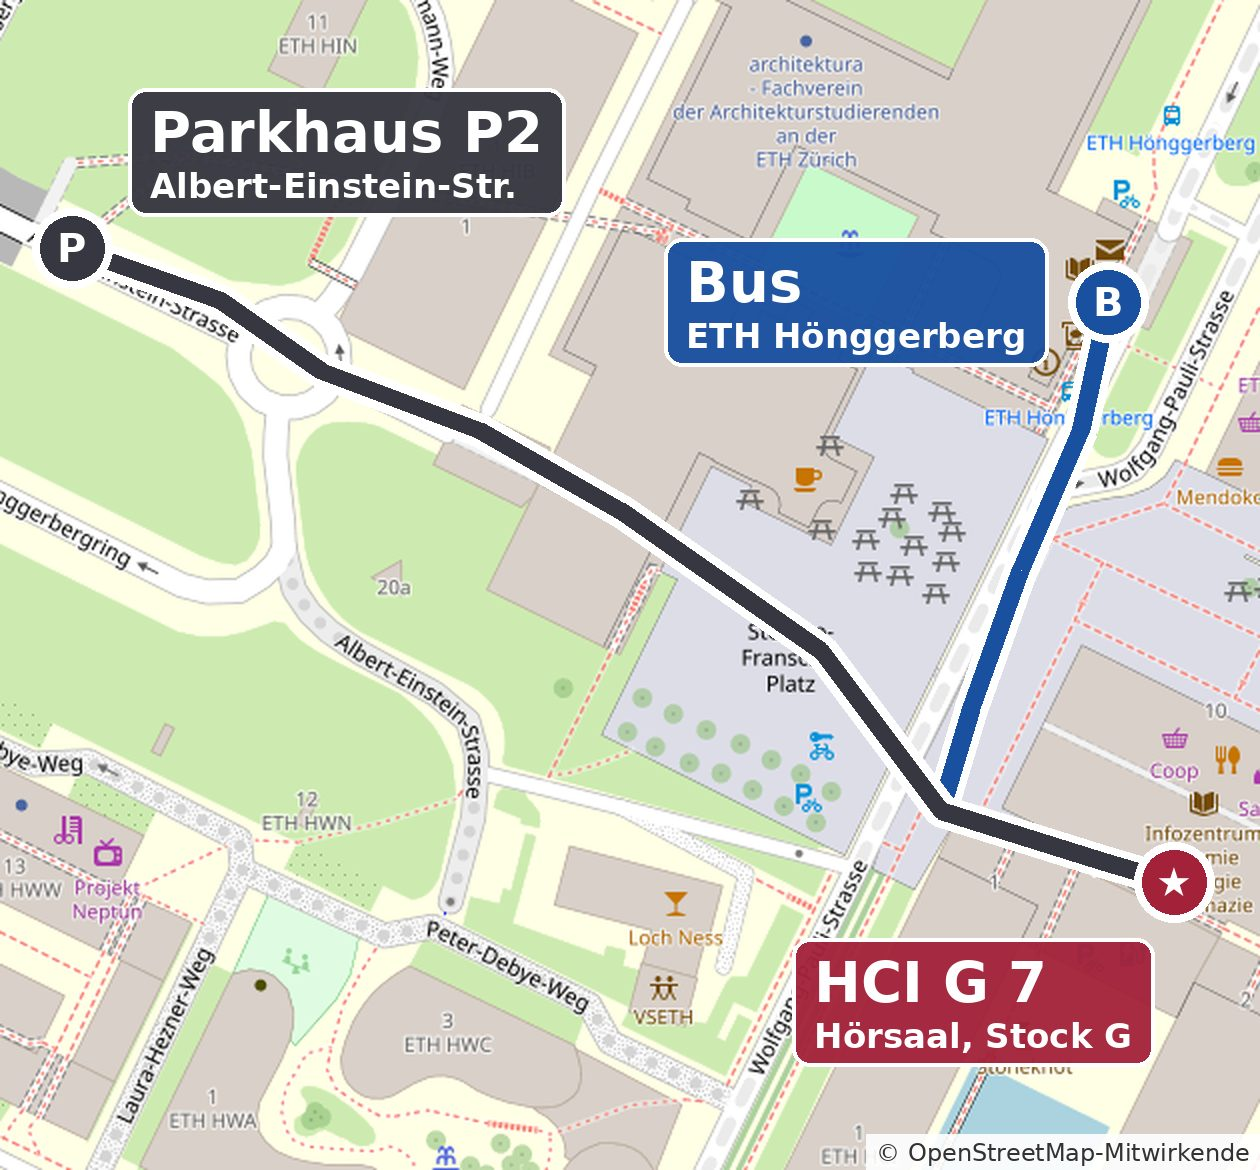
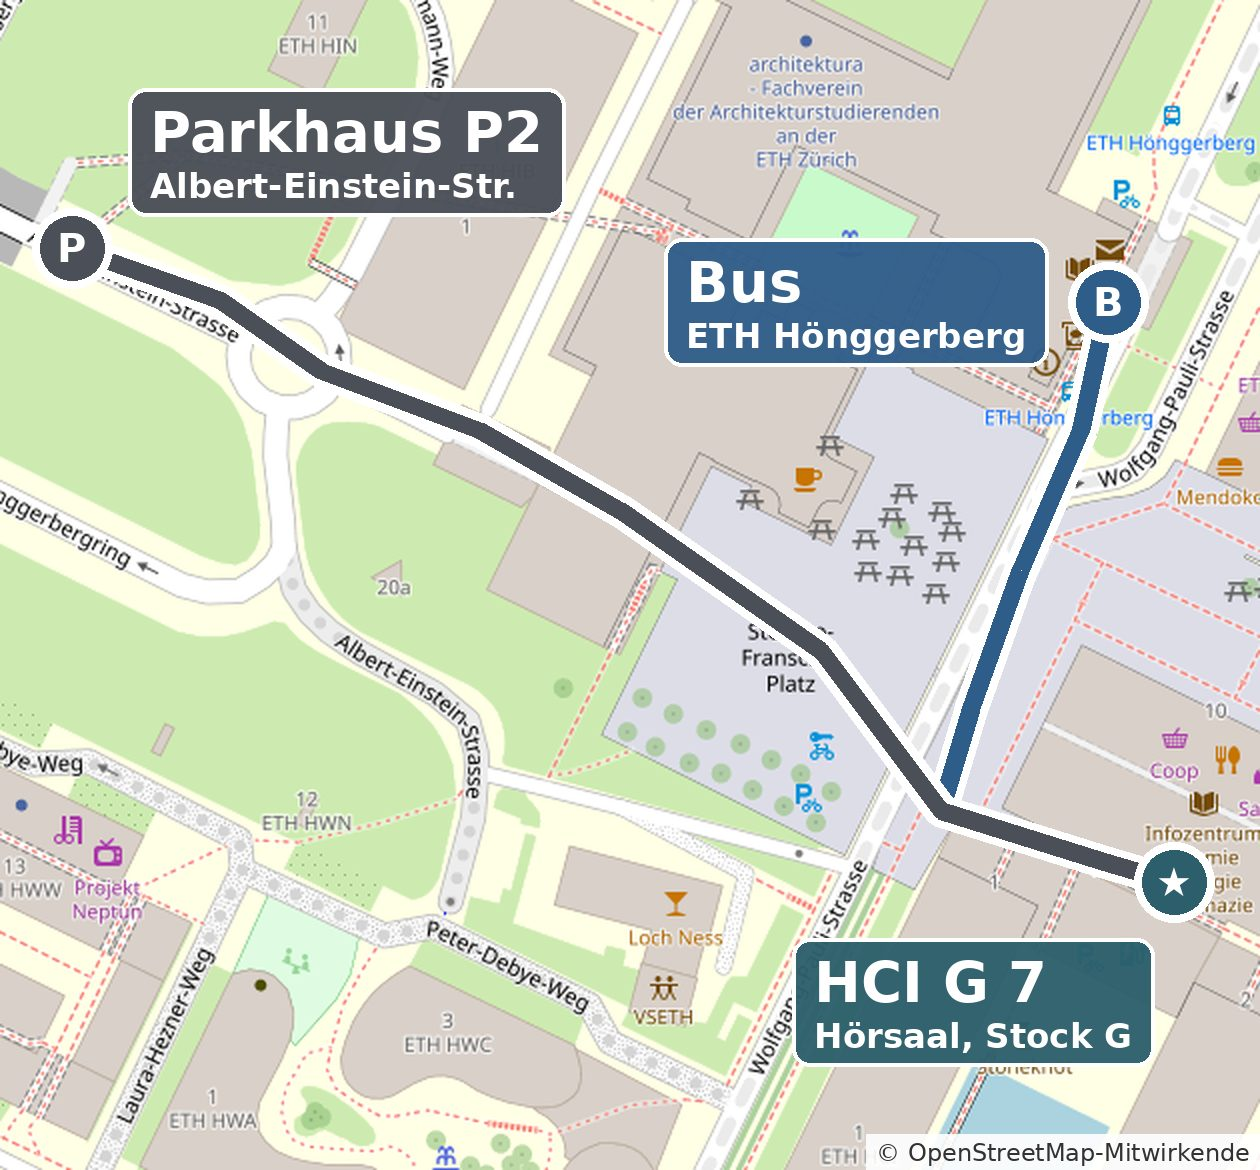
Ruhige Farben statt Rot, Texte kurz und sachlich

diff --git a/index.html b/index.html
@@ -7,9 +7,9 @@
 <meta name="theme-color" content="#ffffff">
 <meta name="robots" content="noindex, nofollow">
 <title>Benjamins Doktortitel-Verteidigung</title>
-<meta name="description" content="Mittwoch, 2. Dezember 2026, ETH Hönggerberg, HCI G 7. Bitte bis 11:45 da sein. Anschliessend Apéro.">
+<meta name="description" content="Mittwoch, 2. Dezember 2026, ETH Hönggerberg, HCI G 7. Bitte bis 11:45 da sein. Danach Apéro.">
 <meta property="og:title" content="Benjamins Doktortitel-Verteidigung">
-<meta property="og:description" content="Mittwoch, 2. Dezember 2026 · ETH Hönggerberg, Hörsaal HCI G 7 · Bitte bis 11:45 da sein. Anschliessend Apéro.">
+<meta property="og:description" content="Mittwoch, 2. Dezember 2026 · ETH Hönggerberg, Hörsaal HCI G 7 · Bitte bis 11:45 da sein. Danach Apéro.">
 <meta property="og:image" content="https://altishofer.github.io/benji-defense/img/vorschau.jpg">
 <meta property="og:url" content="https://altishofer.github.io/benji-defense/">
 <meta property="og:type" content="website">
@@ -20,8 +20,8 @@
 /* Layout: full-bleed photo hero, then a single reading column of sections; maps and photos break out wider */
 :root{
   --bg:#eef0f4; --card:#ffffff; --ink:#0f1420; --muted:#3b4252; --line:#c9ceda;
-  --accent:#9b1c33; --accent-ink:#ffffff; --accent-soft:#f7e4e8;
-  --blue:#164f9c; --blue-soft:#e3ecf8; --grey:#373741;
+  --accent:#2c5f6b; --accent-ink:#ffffff; --accent-soft:#e6f0f1;
+  --blue:#2f5d8a; --blue-soft:#ebf0f6; --grey:#373741;
   --display:"Bricolage Grotesque","Segoe UI",system-ui,sans-serif;
   --body:"Instrument Sans","Segoe UI",system-ui,sans-serif;
   color-scheme:light;
@@ -54,8 +54,8 @@ h3{font:700 20px/1.3 var(--display);margin:22px 0 8px}
 p{margin:0 0 12px}
 p:last-child{margin-bottom:0}
 
-.punctual{background:var(--accent);color:#fff;border:0;display:grid;grid-template-columns:auto 1fr;gap:18px;align-items:start}
-.punctual .clock{font:800 44px/1 var(--display);font-variant-numeric:tabular-nums;letter-spacing:-.02em}
+.punctual{background:var(--accent-soft);color:var(--ink);border:1px solid #c5dadd;border-left:6px solid var(--accent);display:grid;grid-template-columns:auto 1fr;gap:18px;align-items:start}
+.punctual .clock{color:var(--accent);font:800 44px/1 var(--display);font-variant-numeric:tabular-nums;letter-spacing:-.02em}
 .punctual strong{display:block;font:800 23px/1.3 var(--display);margin-bottom:6px}
 .punctual p{margin:0}
 
@@ -82,9 +82,8 @@ li.key .dot{background:var(--accent)}
 .route{list-style:none;margin:0 0 14px;padding:0;display:flex;flex-direction:column;gap:10px}
 .route li{display:grid;grid-template-columns:auto 1fr;gap:12px;align-items:start}
 .line{display:inline-block;min-width:72px;text-align:center;padding:5px 8px;border-radius:6px;font:700 15px/1.3 var(--body);color:#fff;background:var(--blue)}
-.line.tram{background:#0067b1}
-.line.bus{background:#1e5aaa}
-.line.train{background:#c60018}
+.line.tram{background:#2f5d8a}
+.line.bus{background:#3d6690}
 .line.walk{background:var(--grey);color:var(--card)}
 .note{background:var(--blue-soft);border-left:5px solid var(--blue);border-radius:10px;padding:14px 16px;font-size:17px;margin:14px 0}
 .note.tip{background:var(--accent-soft);border-left-color:var(--accent)}
@@ -125,16 +124,16 @@ footer a{color:inherit}
 
 <header class="hero">
   <div class="hero-in gutter">
-    <div class="eyebrow">Einladung · Campus Hönggerberg</div>
+    <div class="eyebrow">Einladung</div>
     <h1>Benjamins Doktortitel-Verteidigung</h1>
     <div class="facts">
       <span><svg width="20" height="20" viewBox="0 0 24 24" fill="none" stroke="currentColor" stroke-width="2" aria-hidden="true"><rect x="3" y="5" width="18" height="16" rx="2"/><path d="M3 10h18M8 3v4M16 3v4"/></svg>Mittwoch, 2. Dezember 2026</span>
-      <span><svg width="20" height="20" viewBox="0 0 24 24" fill="none" stroke="currentColor" stroke-width="2" aria-hidden="true"><circle cx="12" cy="12" r="9"/><path d="M12 7v5l3 2"/></svg>ab 11:45 Uhr</span>
-      <span><svg width="20" height="20" viewBox="0 0 24 24" fill="none" stroke="currentColor" stroke-width="2" aria-hidden="true"><path d="M12 21s-7-6.2-7-11a7 7 0 0 1 14 0c0 4.8-7 11-7 11z"/><circle cx="12" cy="10" r="2.5"/></svg>Hönggerberg, Hörsaal HCI G 7</span>
+      <span><svg width="20" height="20" viewBox="0 0 24 24" fill="none" stroke="currentColor" stroke-width="2" aria-hidden="true"><circle cx="12" cy="12" r="9"/><path d="M12 7v5l3 2"/></svg>11:45 Uhr</span>
+      <span><svg width="20" height="20" viewBox="0 0 24 24" fill="none" stroke="currentColor" stroke-width="2" aria-hidden="true"><path d="M12 21s-7-6.2-7-11a7 7 0 0 1 14 0c0 4.8-7 11-7 11z"/><circle cx="12" cy="10" r="2.5"/></svg>ETH Hönggerberg, Hörsaal HCI G 7</span>
     </div>
     <figure class="hero-photo">
       <img src="img/saal-vorne.jpg" width="1200" height="900" alt="Der Hörsaal HCI G 7 von hinten gesehen: ansteigende Sitzreihen aus Holz, vorne die Wandtafeln.">
-      <figcaption>Hier findet der Vortrag statt: Hörsaal HCI G 7, rund 300 Plätze.</figcaption>
+      <figcaption>Hörsaal HCI G 7</figcaption>
     </figure>
   </div>
 </header>
@@ -145,89 +144,77 @@ footer a{color:inherit}
     <div class="clock">11:45</div>
     <div>
       <strong>Bitte bis 11:45 im Hörsaal sein.</strong>
-      <p>Der Vortrag beginnt pünktlich um 12:00. Wer später kommt, wartet bitte vor der Tür, bis der Vortrag vorbei ist (ca. 12:20). Benjamin zuliebe. Plant für die Anreise etwas Reserve ein.</p>
+      <p>Der Vortrag beginnt um 12:00. Wer später kommt, wartet bitte vor der Tür bis ca. 12:20.</p>
     </div>
   </section>
 
   <section aria-labelledby="ablauf">
     <h2 id="ablauf">Ablauf</h2>
-    <p class="lead">Der Vortrag ist öffentlich, die Prüfung danach findet hinter verschlossenen Türen statt.</p>
     <ol class="timeline">
-      <li><span class="t">11:45</span><span class="dot"></span><span class="d"><b>Eintreffen</b> im Hörsaal HCI G 7<small>Plätze nehmen, Handy lautlos</small></span></li>
-      <li class="key"><span class="t">12:00</span><span class="dot"></span><span class="d"><b>Öffentlicher Vortrag</b><small>Benjamin stellt seine Doktorarbeit vor, ca. 20 Minuten</small></span></li>
-      <li class="key"><span class="t">12:20</span><span class="dot"></span><span class="d"><b>Apéro</b> im Foyer vor dem Hörsaal<small>Benjamin ist währenddessen in der Prüfung bei den Experten</small></span></li>
-      <li class="key"><span class="t">~14:30</span><span class="dot"></span><span class="d"><b>Bekanntgabe des Ergebnisses</b><small>durch die Experten, anschliessend Dank und Doktorhut</small></span></li>
-      <li><span class="t">~15:30</span><span class="dot"></span><span class="d"><b>Gemütlicher Ausklang</b></span></li>
+      <li><span class="t">11:45</span><span class="dot"></span><span class="d"><b>Eintreffen</b><small>Hörsaal HCI G 7</small></span></li>
+      <li class="key"><span class="t">12:00</span><span class="dot"></span><span class="d"><b>Vortrag</b><small>ca. 20 Minuten, öffentlich</small></span></li>
+      <li class="key"><span class="t">12:20</span><span class="dot"></span><span class="d"><b>Apéro</b><small>Foyer vor dem Hörsaal, Benjamin ist in der Prüfung</small></span></li>
+      <li class="key"><span class="t">~14:30</span><span class="dot"></span><span class="d"><b>Bekanntgabe des Ergebnisses</b><small>danach Dank und Doktorhut</small></span></li>
+      <li><span class="t">~15:30</span><span class="dot"></span><span class="d"><b>Ende</b></span></li>
     </ol>
   </section>
 
   <section class="apero" aria-labelledby="apero">
     <div class="txt">
       <h2 id="apero">Apéro</h2>
-      <p class="lead">Nach dem Vortrag laden wir alle zum Apéro ein. Während Benjamin geprüft wird, stossen wir schon mal an und warten gemeinsam auf das Ergebnis.</p>
+      <p>Alle sind herzlich zum Apéro eingeladen.</p>
       <ul>
-        <li>Kalte Platten mit Fleisch, Käse und Gemüse</li>
-        <li>Frisches Brot und vegetarische Häppchen</li>
-        <li>Weisswein, Bier, Mineral und Softdrinks</li>
+        <li>Kalte Platten, Brot, Vegetarisches</li>
+        <li>Wein, Bier, Mineral, Softdrinks</li>
       </ul>
-      <p>Es ist Mittagszeit, ihr müsst also nicht vorher essen gehen. Bitte bleibt im Foyer etwas leise, im Gebäude finden Vorlesungen statt.</p>
+      <p>Im Gebäude laufen Vorlesungen. Bitte etwas leise sein.</p>
     </div>
   </section>
 
   <section id="anreise" aria-labelledby="anreise-h">
     <h2 id="anreise-h">Anreise</h2>
-    <p class="lead">Wir empfehlen den ÖV. Die Haltestelle „ETH Hönggerberg“ liegt 2 Minuten zu Fuss vom Hörsaal entfernt.</p>
 
     <div id="oev">
       <h3 class="mode">Mit ÖV</h3>
-      <h3>Ab Zürich HB (ca. 25 Min.)</h3>
+      <h3>Ab Zürich HB, ca. 25 Min.</h3>
       <ul class="route">
-        <li><span class="line tram">Tram 11</span><span>ab „Bahnhofquai/HB“ bis „Bucheggplatz“</span></li>
-        <li><span class="line bus">Bus 69</span><span>ab „Bucheggplatz“ bis „ETH Hönggerberg“</span></li>
+        <li><span class="line tram">Tram 11</span><span>bis Bucheggplatz</span></li>
+        <li><span class="line bus">Bus 69</span><span>bis ETH Hönggerberg</span></li>
       </ul>
       <h3>Ab Bahnhof Oerlikon</h3>
       <ul class="route">
-        <li><span class="line bus">Bus 80</span><span>ab „Bahnhof Oerlikon Nord“ Richtung Triemlispital bis „ETH Hönggerberg“</span></li>
+        <li><span class="line bus">Bus 80</span><span>ab Oerlikon Nord bis ETH Hönggerberg</span></li>
       </ul>
-      <div class="note">Für die Stadt Zürich reicht ein Ticket für Zone 110. Die genauen Verbindungen findet ihr in der SBB-App, Ziel: <b>Zürich, ETH Hönggerberg</b>.</div>
+      <p>Von der Haltestelle 2 Minuten zu Fuss. Ticket: Zone 110.</p>
       <figure>
         <img src="img/karte-zuerich.jpg" width="1153" height="1239" loading="lazy" alt="Übersichtskarte Zürich: von Zürich HB mit Tram 11 zum Bucheggplatz und mit Bus 69 zur ETH Hönggerberg, oder ab Bahnhof Oerlikon mit Bus 80.">
-        <figcaption>Übersicht: So kommt ihr vom Hauptbahnhof oder von Oerlikon auf den Hönggerberg.</figcaption>
       </figure>
     </div>
 
     <div id="auto">
       <h3 class="mode">Mit dem Auto</h3>
-      <h3>Parkhaus P2</h3>
-      <p>Am nächsten beim Hörsaal liegt das <b>Parkhaus P2</b> an der Albert-Einstein-Strasse, beim Kreisel. Von dort sind es rund 5 Minuten zu Fuss über den Stefano-Franscini-Platz bis zum HCI.</p>
-      <ul class="route">
-        <li><span class="line walk">Navi</span><span>Ziel „Parkhaus P2, Albert-Einstein-Strasse, 8093 Zürich“ oder den Link unten verwenden</span></li>
-      </ul>
-      <div class="note">Das Parkhaus ist kostenpflichtig, bezahlt wird am Automaten. Die Wolfgang-Pauli-Strasse mitten durch den Campus ist für Autos gesperrt, fahrt also über den Hönggerbergring.</div>
-      <div class="note tip"><b>Tipp:</b> Laut ETH erhaltet ihr ein Gratis-Ausfahrticket, wenn ihr euer Parkticket in der <b>Campus Info im Gebäude HIL</b> abgebt. Fragt am besten gleich bei der Ankunft nach.</div>
-      <p>Parkplätze sind am Hönggerberg knapp. Wenn möglich, bildet Fahrgemeinschaften.</p>
+      <p><b>Parkhaus P2</b>, Albert-Einstein-Strasse, 8093 Zürich. Von dort 5 Minuten zu Fuss.</p>
+      <p>Kostenpflichtig. Parkplätze sind knapp.</p>
+      <p>Gratis-Ausfahrt laut ETH: Parkticket in der Campus Info (Gebäude HIL) abgeben.</p>
     </div>
 
     <figure>
-      <img src="img/karte-campus.jpg" width="1260" height="1170" loading="lazy" alt="Campusplan: von der Bushaltestelle ETH Hönggerberg rund 150 Meter nach Süden entlang der Wolfgang-Pauli-Strasse zum HCI; vom Parkhaus P2 beim Kreisel an der Albert-Einstein-Strasse über den Stefano-Franscini-Platz zum HCI.">
-      <figcaption>Auf dem Campus: Die Wege von der Bushaltestelle und vom Parkhaus P2 zum Hörsaal HCI G 7.</figcaption>
-      <div class="legend"><span><i style="background:#1e5aaa"></i>Fussweg ab Bus (2 Min.)</span><span><i style="background:#464650"></i>Fussweg ab Parkhaus P2 (5 Min.)</span></div>
+      <img src="img/karte-campus.jpg" width="1260" height="1170" loading="lazy" alt="Campusplan: von der Bushaltestelle ETH Hönggerberg rund 150 Meter nach Süden zum HCI; vom Parkhaus P2 an der Albert-Einstein-Strasse über den Stefano-Franscini-Platz zum HCI.">
+      <div class="legend"><span><i style="background:#2f5d8a"></i>ab Bus, 2 Min.</span><span><i style="background:#4a4f58"></i>ab Parkhaus P2, 5 Min.</span></div>
     </figure>
 
     <ul class="links">
-      <li><a href="https://www.google.com/maps/dir/?api=1&amp;destination=47.407528,8.507715&amp;travelmode=transit" target="_blank" rel="noopener"><b>Route mit ÖV</b><span>Google Maps, bis zum HCI</span></a></li>
-      <li><a href="https://www.google.com/maps/dir/?api=1&amp;destination=47.40868,8.50476&amp;travelmode=driving" target="_blank" rel="noopener"><b>Navigation zum Parkhaus P2</b><span>Google Maps, mit dem Auto</span></a></li>
-      <li><a href="https://www.google.com/maps/search/?api=1&amp;query=47.407528,8.507715" target="_blank" rel="noopener"><b>Standort HCI</b><span>Google Maps</span></a></li>
-      <li><a href="https://ethz.ch/de/utils/location.html?building=HCI&amp;floor=G&amp;room=7" target="_blank" rel="noopener"><b>Raumplan HCI G 7</b><span>Gebäudeplan der ETH</span></a></li>
+      <li><a href="https://www.google.com/maps/dir/?api=1&amp;destination=47.407528,8.507715&amp;travelmode=transit" target="_blank" rel="noopener"><b>Route mit ÖV</b><span>Google Maps</span></a></li>
+      <li><a href="https://www.google.com/maps/dir/?api=1&amp;destination=47.40868,8.50476&amp;travelmode=driving" target="_blank" rel="noopener"><b>Route zum Parkhaus P2</b><span>Google Maps</span></a></li>
+      <li><a href="https://ethz.ch/de/utils/location.html?building=HCI&amp;floor=G&amp;room=7" target="_blank" rel="noopener"><b>Raumplan HCI G 7</b><span>ETH</span></a></li>
     </ul>
   </section>
 
   <section aria-labelledby="ort">
     <h2 id="ort">Gebäude und Saal</h2>
-    <p class="lead">Der Hörsaal liegt im Gebäude HCI auf Stockwerk G.</p>
     <div class="photo-row">
-      <figure style="margin:0"><img src="img/hci.jpg" loading="lazy" alt="Das Gebäude HCI mit Glasfassade auf dem Campus Hönggerberg."><figcaption>Gebäude HCI</figcaption></figure>
-      <figure style="margin:0"><img src="img/saal-seite.jpg" loading="lazy" alt="Der Hörsaal HCI G 7 von der Seite: Holzbänke in ansteigenden Reihen."><figcaption>Hörsaal G 7</figcaption></figure>
+      <figure style="margin:0"><img src="img/hci.jpg" loading="lazy" alt="Das Gebäude HCI mit Glasfassade."><figcaption>Gebäude HCI</figcaption></figure>
+      <figure style="margin:0"><img src="img/saal-seite.jpg" loading="lazy" alt="Der Hörsaal HCI G 7 von der Seite: Holzbänke in ansteigenden Reihen."><figcaption>Hörsaal G 7, Stockwerk G</figcaption></figure>
     </div>
   </section>
 
